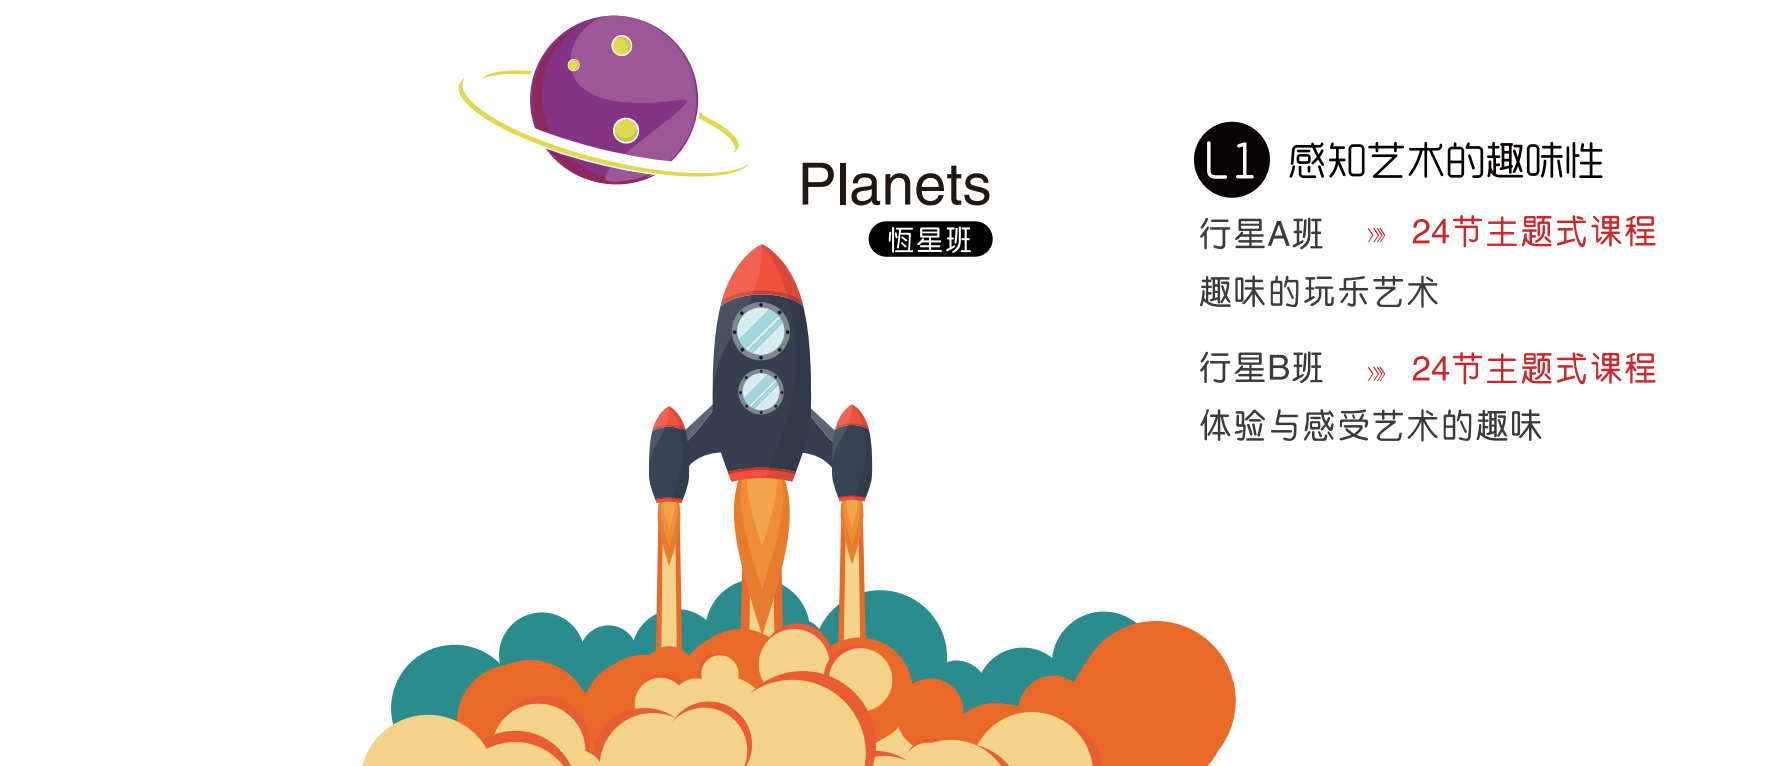
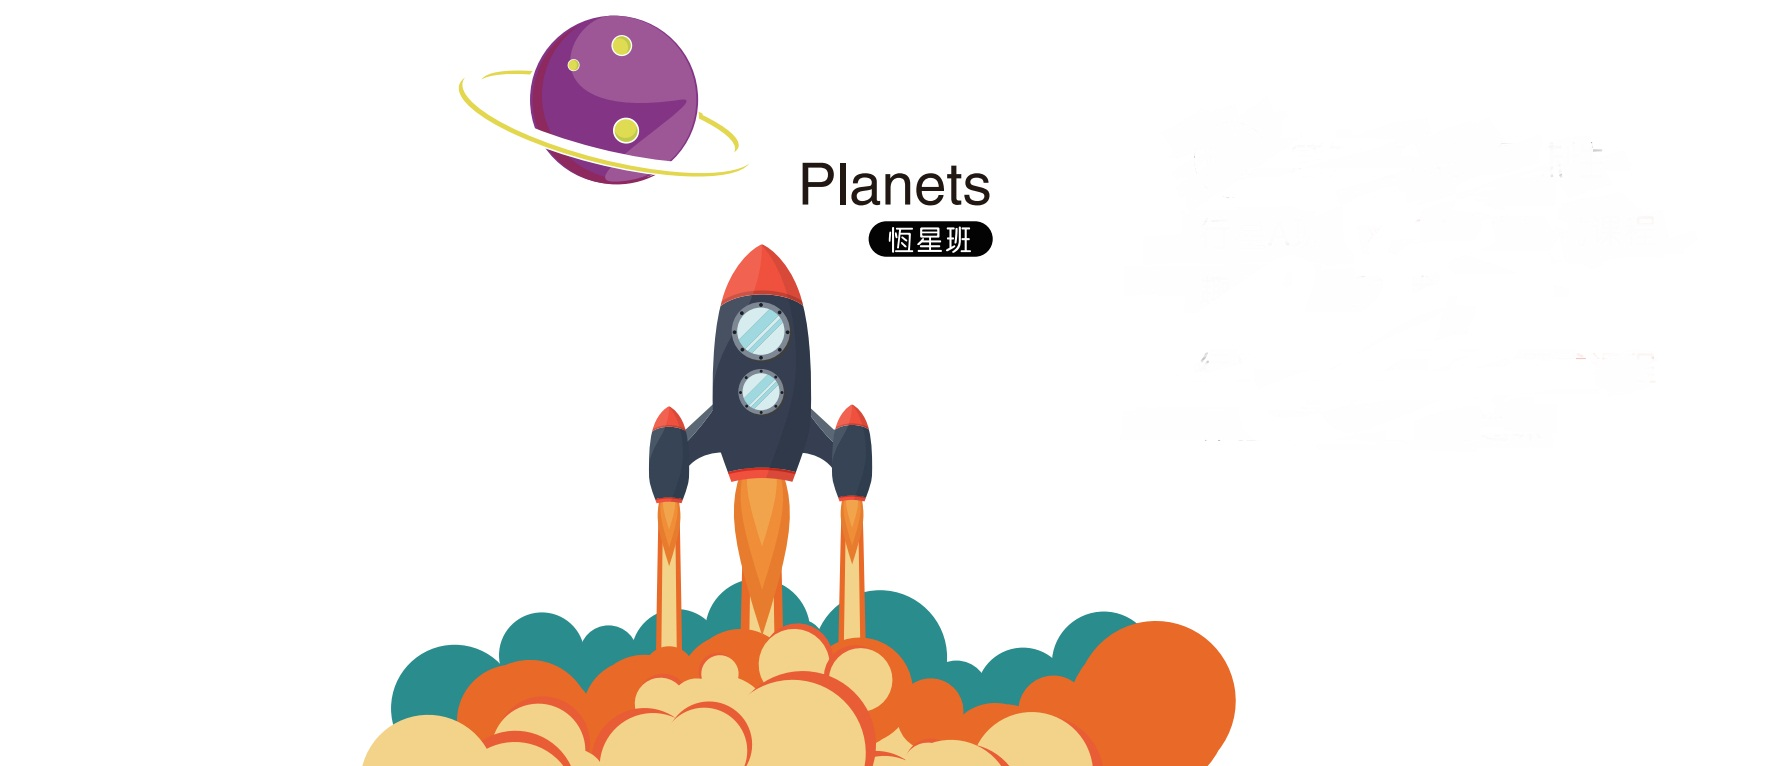
show页面轮播

diff --git a/show.html b/show.html
@@ -58,9 +58,27 @@
 	</ul>
 
 	<ul class="DB_imgSet">
-		<li></li>
-		<li></li>
-		<li></li>
+		<li><div class="slider-pic1">
+			<p class="pic1-title"><span class="index">L1</span>  感知艺术的趣味性</p>
+			<p>行星A班 &nbsp;&nbsp;&nbsp;&nbsp;>>>&nbsp;&nbsp;&nbsp;&nbsp;  <span class="pic1-content">24节主题式课程</span></p>
+			<p>趣味的玩乐艺术</p>
+			<p>行星B班&nbsp;&nbsp;&nbsp;&nbsp;>>>&nbsp;&nbsp;&nbsp;&nbsp; <span class="pic1-content">24节主题式课程</span></p>
+			<p>体验与感受艺术的趣味</p>
+		</div></li>
+		<li><div class="slider-pic1">
+			<p class="pic1-title"><span class="index">L2</span>  感知艺术的趣味性</p>
+			<p>行星A班 &nbsp;&nbsp;&nbsp;&nbsp;>>>&nbsp;&nbsp;&nbsp;&nbsp;  <span class="pic1-content">24节主题式课程</span></p>
+			<p>趣味的玩乐艺术</p>
+			<p>行星B班&nbsp;&nbsp;&nbsp;&nbsp;>>>&nbsp;&nbsp;&nbsp;&nbsp; <span class="pic1-content">24节主题式课程</span></p>
+			<p>体验与感受艺术的趣味</p>
+		</div></li>
+		<li><div class="slider-pic1">
+			<p class="pic1-title"><span class="index">L3</span>  感知艺术的趣味性</p>
+			<p>行星A班 &nbsp;&nbsp;&nbsp;&nbsp;>>>&nbsp;&nbsp;&nbsp;&nbsp;  <span class="pic1-content">24节主题式课程</span></p>
+			<p>趣味的玩乐艺术</p>
+			<p>行星B班&nbsp;&nbsp;&nbsp;&nbsp;>>>&nbsp;&nbsp;&nbsp;&nbsp; <span class="pic1-content">24节主题式课程</span></p>
+			<p>体验与感受艺术的趣味</p>
+		</div></li>
 	</ul>
 
 	<div class="DB_menuWrap">

diff --git a/css/show.css b/css/show.css
@@ -23,3 +23,31 @@
 	background:url(../images/3.jpg) no-repeat;
 	background-size: 100% 520px;
 }
+
+.slider-pic1 {
+	right: -700px;
+	top: 100px;
+	position: relative;
+	font-size: 22px;
+}
+
+.slider-pic1 .index {
+	display: inline-block;
+	width: 35px;
+	height: 35px;
+	background-color: #000;
+	border-radius: 50%;
+	color: #fff;
+	text-align: center;
+	line-height: 35px;
+	/*font-weight: bold;*/
+}
+
+.slider-pic1 .pic1-title {
+	font-size: 24px;
+}
+
+.slider-pic1 .pic1-content {
+	color: red;
+	font-weight: bold;
+}
